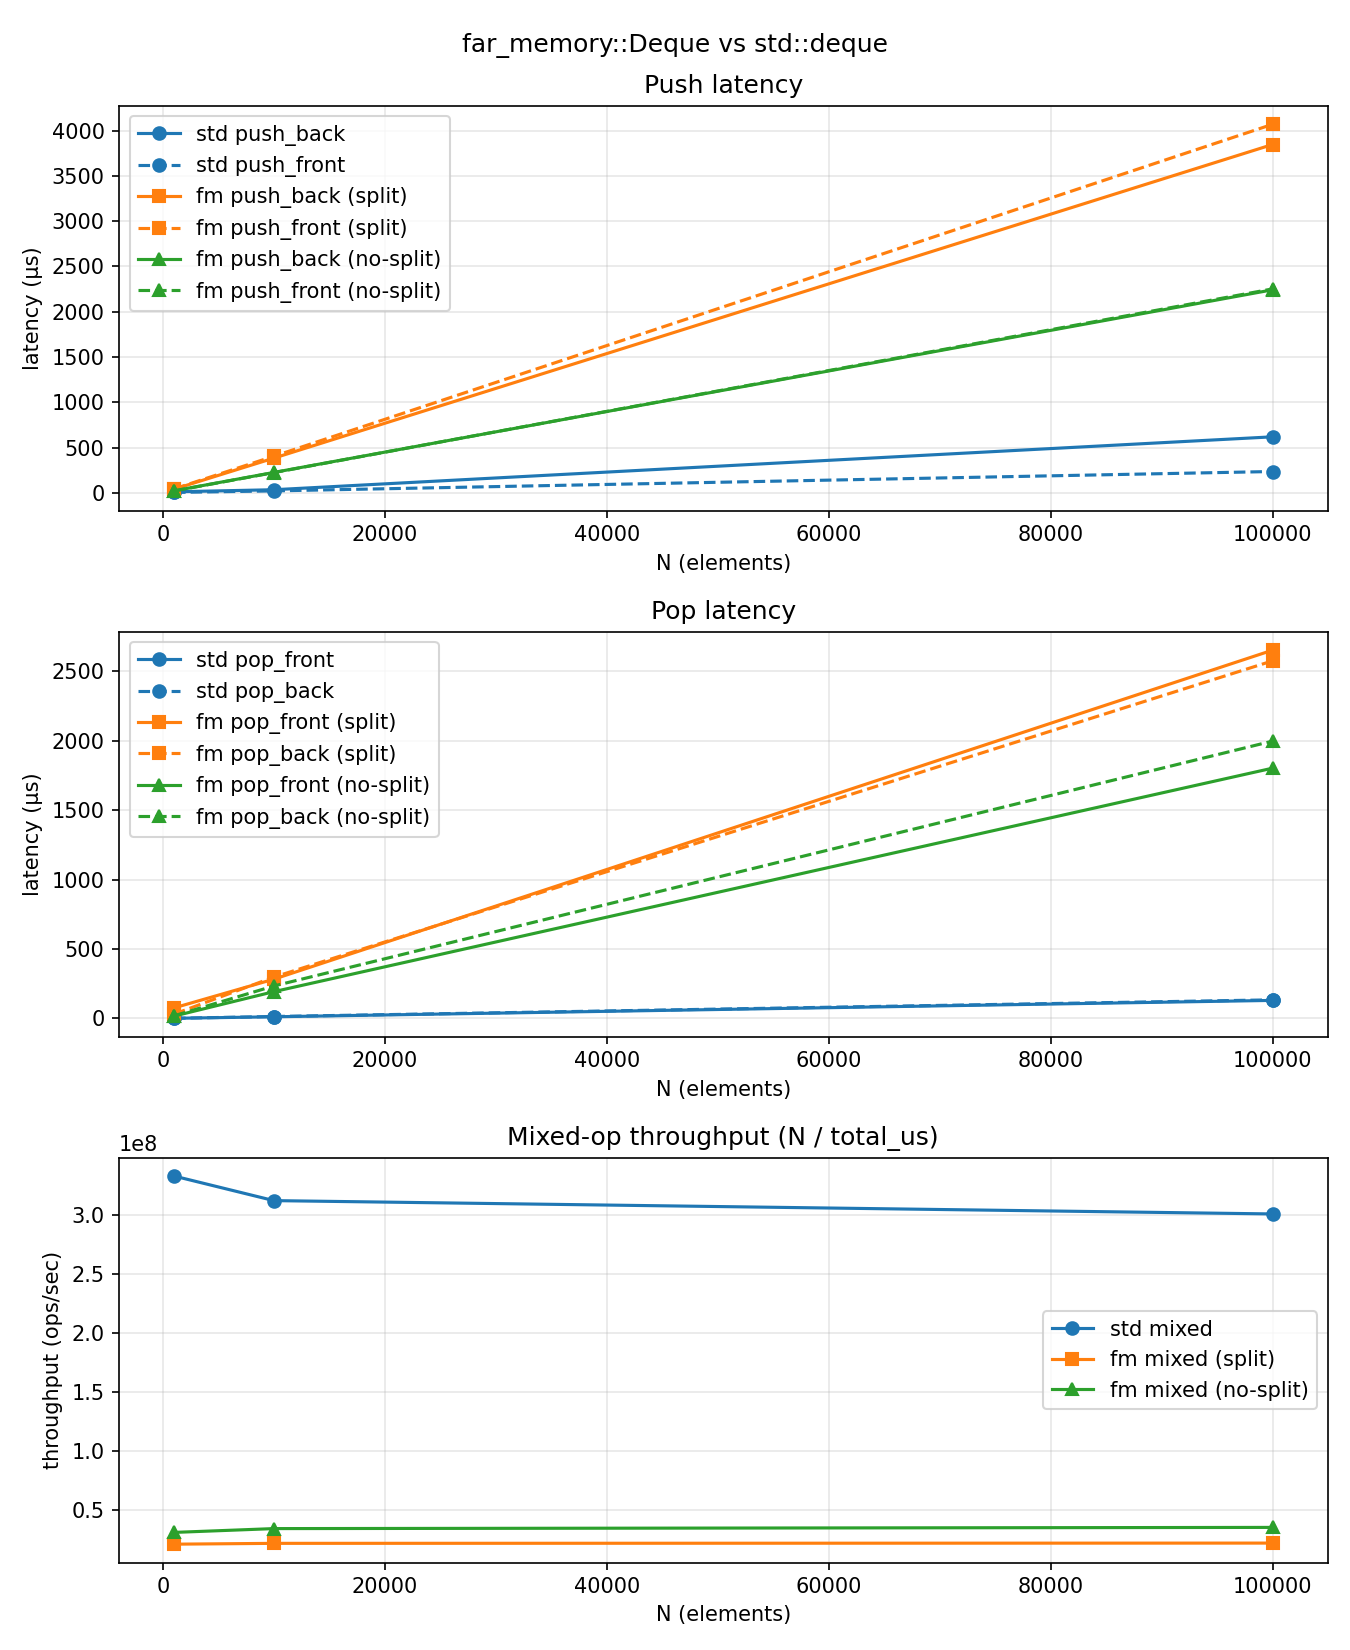
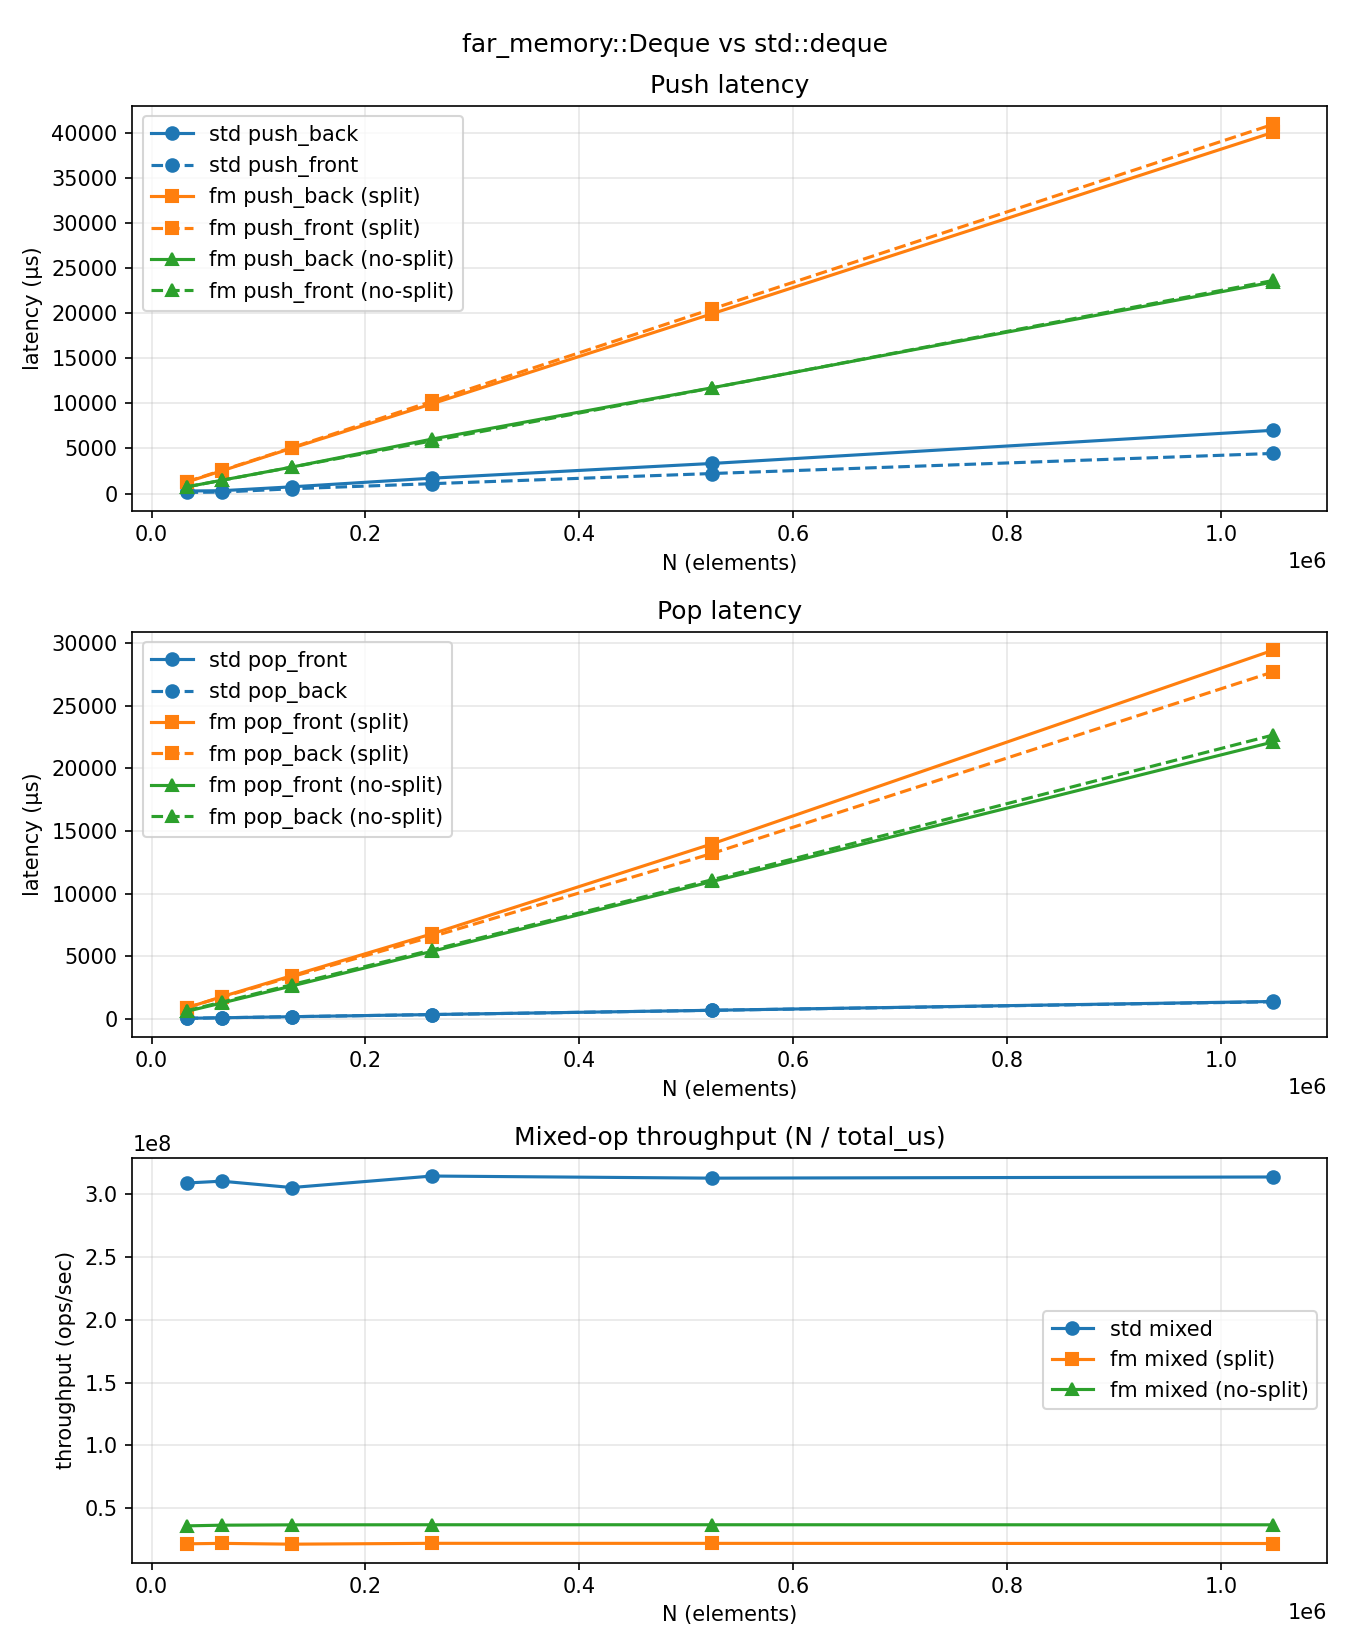
update deque performance

diff --git a/aifm/scripts/plot_deque_benchmark.py b/aifm/scripts/plot_deque_benchmark.py
@@ -35,8 +35,8 @@ def main():
         help="JSON from test_deque_perf (default: ./deque_perf_report.json).",
     )
     parser.add_argument(
-        "-o", "--output", default="performance.png",
-        help="Output image path (default: performance.png).",
+        "-o", "--output", default="deque_performance.png",
+        help="Output image path (default: deque_performance.png).",
     )
     args = parser.parse_args()
 

diff --git a/aifm/test/test_deque_perf.cpp b/aifm/test/test_deque_perf.cpp
@@ -23,7 +23,7 @@ constexpr uint32_t kNumGCThreads = 12;
 constexpr uint32_t kScopeResetInterval = 256;
 
 // Sizes chosen so each workload fits in far-memory with meaningful GC pressure.
-static const uint32_t kSizes[] = {1000, 10000, 100000};
+static const uint32_t kSizes[] = {1<<15, 1<<16, 1<<17, 1<<18, 1<<19, 1<<20};
 
 class DequePerfReport {
 public: